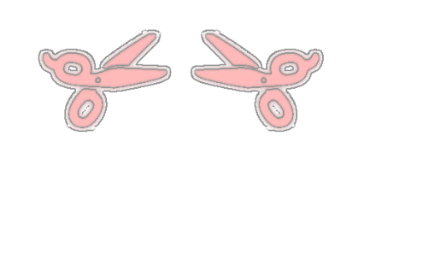
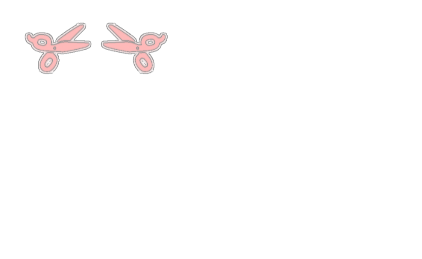
mooiere scharen

Changed region(s): [[0.0616, 0.0927, 0.7701, 0.5251]]

diff --git a/css/style.css b/css/style.css
@@ -1,6 +1,6 @@
 body {
 	background-color: grey;
-	background-image: url("../img/bg.png");
+	background-image: url("../img/bg2.png");
 	background-repeat: repeat;
 	
 	/* background-image:  url("../img/octoacidtrip.gif"); */
@@ -42,6 +42,7 @@ button{
 	border: 2px solid red;
 	display: inline-block;
 	margin-left: 0px;
+	float: left !important;
 }
 
 .container div{
